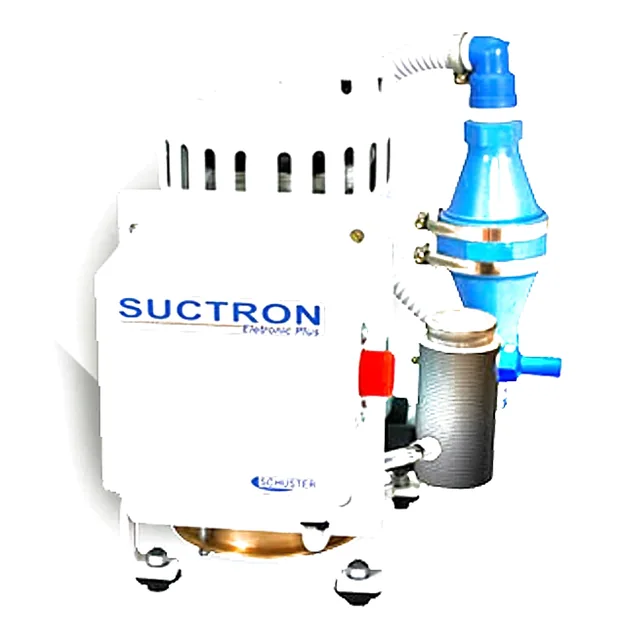
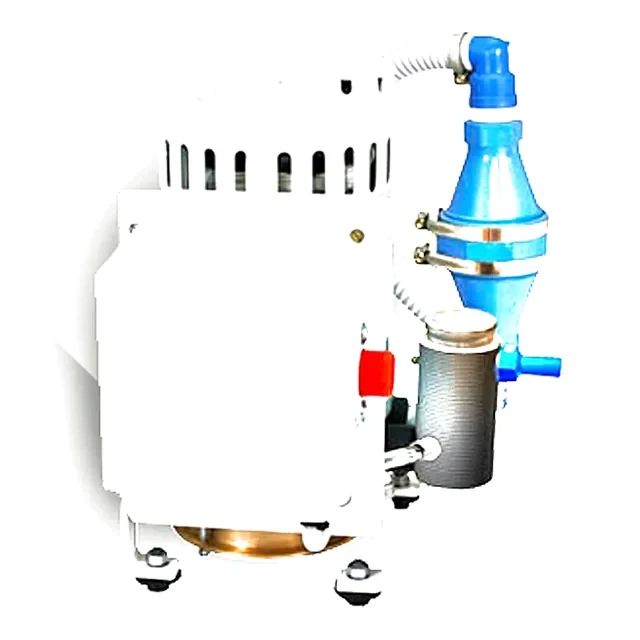
fix(site): uma prova por trecho, FAQ sem repetição e foco visível no simulador
Revisão visual em 320–1920 depois da consolidação do CSS.

- Home: sai a faixa de equipamentos logo abaixo da abertura, a terceira
  escolha de equipamento seguida (triagem, faixa, grade). O cartão aberto
  da grade passa a levar à landing do equipamento ("Ver conserto").
- Selos sobre foto que repetiam a faixa seguinte ("todas as marcas",
  "orçamento antes da troca") saem da home e das landings; sai também o
  chip "sem estimativa em R$" do simulador, que quebrava em três linhas.
- FAQ das landings: a pergunta de marca do equipamento (`tema: "marcas"`)
  toma o lugar da geral, em vez de repetir a mesma resposta. O E2E das
  7 landings reprova pergunta duplicada no FAQPage.
- Deslizantes do simulador mostram o foco de teclado no próprio controle;
  antes o contorno ficava só no pseudo-elemento do botão, que nenhum
  navegador desenha igual. Sem a faixa, os 30 Tabs do portão de a11y
  passaram a alcançá-los e pegaram o defeito.
- Legenda da foto da clínica não fica mais coberta pela foto da bancada;
  "Cookies e medição" alinha com os outros links do rodapé; FAQ com
  respiro interno; sobretítulo das landings quebra em linhas equilibradas.
- Foto da bomba de vácuo sem a marca do fabricante estampada.

Bateria `pnpm validacao:final` integral: arquitetura, lint (0 erros),
tipos, 384 unitários, build com banco, E2E 96/96, a11y 30 medições sem
violação e responsividade 132 medições.

Changed region(s): [[0.1875, 0.4688, 0.5, 0.5312], [0.375, 0.75, 0.5, 0.7812]]

diff --git a/src/components/site/grade-equipamentos.tsx b/src/components/site/grade-equipamentos.tsx
@@ -2,13 +2,15 @@
 
 import { useId, useState } from "react";
 import Image from "next/image";
-import { BadgeCheck, ChevronDown } from "lucide-react";
+import Link from "next/link";
+import { ArrowRight, BadgeCheck, ChevronDown } from "lucide-react";
 
 import { ICONE_DO_EQUIPAMENTO, IMAGEM_DO_EQUIPAMENTO } from "@/components/site/icones-equipamento";
 import { MarcaWhatsapp } from "@/components/site/marca-whatsapp";
 import { OpcoesWhatsapp } from "@/components/site/opcoes-whatsapp";
 import type { ContatoWhatsapp } from "@/lib/contatos-whatsapp";
 import { EQUIPAMENTOS, montarMensagem, type Equipamento, type IdEquipamento } from "@/lib/diagnostico";
+import { caminhoDoEquipamento } from "@/lib/paginas-equipamento";
 import { cn } from "@/lib/utils";
 
 /* ============================================================================
@@ -28,6 +30,10 @@ import { cn } from "@/lib/utils";
    Grade de 4 colunas: 4 células da autoclave + 6 comuns + 2 do "outro" = 12,
    sem buraco. No celular, 2 colunas com os dois blocos largos ocupando a
    linha inteira.
+
+   Aberto, o cartão também leva à página do equipamento. Até 23/09/2026 a home
+   tinha, além desta grade, uma faixa só com esses links logo abaixo da
+   abertura: três escolhas de equipamento seguidas (triagem, faixa, grade).
    ============================================================================ */
 
 function Cartao({
@@ -51,6 +57,7 @@ function Cartao({
   const imagem = IMAGEM_DO_EQUIPAMENTO[equipamento.id];
   const outro = equipamento.id === "outro";
   const idOpcoes = useId();
+  const pagina = caminhoDoEquipamento(equipamento.id);
 
   return (
     <li
@@ -161,15 +168,28 @@ function Cartao({
 
         <div id={idOpcoes} hidden={!aberto} className="relative z-[2] mt-4">
           {aberto ? (
-            <OpcoesWhatsapp
-              contatos={contatos}
-              mensagem={montarMensagem({ equipamento: equipamento.id })}
-              equipamento={equipamento.id}
-              posicao="secao"
-              tamanho="sm"
-              lado={destaque || largo}
-              coluna={!destaque && !largo}
-            />
+            <>
+              <OpcoesWhatsapp
+                contatos={contatos}
+                mensagem={montarMensagem({ equipamento: equipamento.id })}
+                equipamento={equipamento.id}
+                posicao="secao"
+                tamanho="sm"
+                lado={destaque || largo}
+                coluna={!destaque && !largo}
+              />
+              {pagina ? (
+                <Link
+                  href={pagina}
+                  prefetch={false}
+                  className="foco-jb mt-2 inline-flex min-h-11 items-center gap-1.5 rounded-md text-sm font-bold text-graf-700 underline-offset-4 hover:text-jb-700 hover:underline"
+                >
+                  Ver conserto
+                  <span className="sr-only"> de {equipamento.nome.toLowerCase()}</span>
+                  <ArrowRight className="size-4" aria-hidden />
+                </Link>
+              ) : null}
+            </>
           ) : null}
         </div>
       </div>

diff --git a/src/components/site/duvidas.tsx b/src/components/site/duvidas.tsx
@@ -1,6 +1,7 @@
-import { MessageCircleQuestion, ShieldCheck } from "lucide-react";
+import { MessageCircleQuestion } from "lucide-react";
 
 import { Acordeao } from "@/components/ui/acordeao";
+import type { Pergunta } from "@/lib/paginas-equipamento";
 import { JsonLd, faqJsonLd } from "@/lib/seo";
 
 /* ============================================================================
@@ -19,10 +20,9 @@ export function Duvidas({
   cidade: string;
   horario: string;
   /** Perguntas de um equipamento, que vêm antes das gerais. */
-  extras?: readonly { pergunta: string; resposta: string }[];
+  extras?: readonly Pergunta[];
 }) {
-  const perguntas = [
-    ...extras,
+  const gerais: Pergunta[] = [
     {
       pergunta: "Vocês atendem na minha clínica?",
       resposta: `A JB atende clínicas em ${cidade} e região. Conforme o equipamento e a ocorrência, a avaliação acontece no consultório ou na bancada da JB — a forma de atendimento é combinada com a clínica depois da triagem pelo WhatsApp.`,
@@ -33,6 +33,7 @@ export function Duvidas({
         "Depende do equipamento, do defeito e da peça, e só se sabe depois da avaliação. Quando houver troca de peça, o orçamento vem antes: nenhuma peça é substituída sem a aprovação da clínica.",
     },
     {
+      tema: "marcas",
       pergunta: "Vocês atendem todas as marcas?",
       resposta:
         "Sim. A JB conserta equipamentos odontológicos de todas as marcas. Modelo e sintoma entram na triagem quando a clínica os informa. A JB também é assistência técnica autorizada EVOXX, na lista oficial do fabricante.",
@@ -52,6 +53,9 @@ export function Duvidas({
         "Não. É só chamar no WhatsApp. A equipe registra o atendimento do lado de cá, com o histórico do seu equipamento.",
     },
   ];
+  // "De qualquer marca?" do equipamento substitui o "todas as marcas?" geral.
+  const temas = new Set(extras.map((item) => item.tema).filter(Boolean));
+  const perguntas = [...extras, ...gerais.filter((item) => !item.tema || !temas.has(item.tema))];
 
   return (
     <section
@@ -75,21 +79,6 @@ export function Duvidas({
               sem esconder a próxima etapa.
             </p>
 
-            <div
-              className="jb-revela mt-6 flex gap-3 rounded-xl border border-graf-200 bg-white p-4"
-              style={{ "--i": 2 } as React.CSSProperties}
-            >
-              <span className="flex size-10 shrink-0 items-center justify-center rounded-xl bg-jb-50 text-jb-600">
-                <ShieldCheck className="size-5" aria-hidden />
-              </span>
-              <div>
-                <p className="text-sm font-extrabold text-graf-900">Orçamento antes da troca</p>
-                <p className="mt-1 text-xs font-medium leading-relaxed text-graf-600">
-                  Prazo e valor dependem da avaliação e da peça. Eles são informados antes de
-                  qualquer substituição, para a clínica aprovar.
-                </p>
-              </div>
-            </div>
           </div>
         </div>
 

diff --git a/src/components/site/pagina-equipamento.tsx b/src/components/site/pagina-equipamento.tsx
@@ -2,7 +2,7 @@ import type { Metadata } from "next";
 import Image from "next/image";
 import Link from "next/link";
 import { notFound } from "next/navigation";
-import { ArrowRight, BadgeCheck, FileCheck2, ShieldAlert } from "lucide-react";
+import { ArrowRight, ShieldAlert } from "lucide-react";
 
 import { ChamadaFinal } from "@/components/site/chamada-final";
 import { ClinicaOuBancada } from "@/components/site/clinica-ou-bancada";
@@ -162,7 +162,9 @@ export async function PaginaEquipamento({ slug }: { slug: string }) {
 
 /**
  * O equipamento em destaque, sobre um brilho da marca. Parado: a imagem
- * confirma o anúncio, e nada nela precisa se mexer em laço.
+ * confirma o anúncio, e nada nela precisa se mexer em laço. Sem selos por
+ * cima: "todas as marcas" e "orçamento antes da troca" já abrem a faixa logo
+ * abaixo, e repetidos aqui só disputavam espaço com a foto.
  *
  * Recorte de fundo branco entra com `mix-blend-multiply`, que some com o
  * branco da foto sobre o degradê; sem recorte bom (destilador), entra a foto
@@ -213,18 +215,6 @@ function Visual({ pagina }: { pagina: PaginaDeEquipamento }) {
         )}
       </div>
 
-      <p className="absolute -left-2 top-4 flex items-center gap-2 rounded-xl border border-graf-950/5 bg-white px-3 py-2 text-xs font-extrabold text-graf-900 shadow-pop sm:-left-4 sm:text-sm">
-        <span className="flex size-7 items-center justify-center rounded-lg bg-jb-500 text-white">
-          <BadgeCheck className="size-4" aria-hidden />
-        </span>
-        Todas as marcas
-      </p>
-      <p className="absolute -right-2 bottom-4 flex items-center gap-2 rounded-xl border border-graf-950/5 bg-white px-3 py-2 text-xs font-extrabold text-graf-900 shadow-pop sm:-right-4 sm:text-sm">
-        <span className="flex size-7 items-center justify-center rounded-lg bg-ok-500 text-white">
-          <FileCheck2 className="size-4" aria-hidden />
-        </span>
-        Orçamento antes da troca
-      </p>
     </div>
   );
 }

diff --git a/src/components/site/foto-abertura.tsx b/src/components/site/foto-abertura.tsx
@@ -1,6 +1,4 @@
 import Image from "next/image";
-import { BadgeCheck, FileCheck2 } from "lucide-react";
-
 import { cn } from "@/lib/utils";
 
 /* ============================================================================
@@ -13,7 +11,8 @@ import { cn } from "@/lib/utils";
 
    A foto fica parada. Zoom lento, reflexo que atravessa e selos boiando
    rodavam em laço infinito — enfeite que custa compositor e atenção sem
-   acrescentar informação.
+   acrescentar informação. Os selos "Todas as marcas" e "Orçamento antes da
+   troca" também saíram daqui: repetiam as provas logo acima da foto.
    ============================================================================ */
 
 export function FotoAbertura({ className }: { className?: string }) {
@@ -42,19 +41,6 @@ export function FotoAbertura({ className }: { className?: string }) {
           </div>
         </div>
       </div>
-
-      <p className="absolute -left-2 top-4 flex items-center gap-2 rounded-xl border border-white/70 bg-white/95 px-3 py-2 text-xs font-extrabold text-graf-900 shadow-pop sm:-left-4 sm:text-sm">
-        <span className="flex size-7 items-center justify-center rounded-lg bg-jb-500 text-white shadow-[0_6px_18px_-8px_rgb(224_20_27/0.9)]">
-          <BadgeCheck className="size-4" aria-hidden />
-        </span>
-        Todas as marcas
-      </p>
-      <p className="absolute -right-2 top-16 flex items-center gap-2 rounded-xl border border-white/70 bg-white/95 px-3 py-2 text-xs font-extrabold text-graf-900 shadow-pop sm:-right-4 sm:top-auto sm:bottom-5 sm:text-sm">
-        <span className="flex size-7 items-center justify-center rounded-lg bg-ok-500 text-white shadow-[0_6px_18px_-8px_rgb(16_185_129/0.9)]">
-          <FileCheck2 className="size-4" aria-hidden />
-        </span>
-        Orçamento antes da troca
-      </p>
 
       <figcaption className="sr-only">
         Assistência técnica de equipamentos odontológicos com orçamento informado antes da troca de peças.

diff --git a/src/app/(site)/site.css b/src/app/(site)/site.css
@@ -95,9 +95,19 @@
 /* ------------------------------------------------------ controle deslizante */
 
 /* Trilho grosso e botão de 28px: o polegar acerta de primeira no celular. O
-   trecho já percorrido fica vermelho, lido de `--preenchido`. */
+   trecho já percorrido fica vermelho, lido de `--preenchido`.
+
+   O foco de teclado contorna o controle inteiro, como o `foco-jb` do resto do
+   site. Até 23/09/2026 o contorno ficava só no pseudo-elemento do botão
+   (`::-webkit-slider-thumb`/`::-moz-range-thumb`), que cada navegador desenha
+   do seu jeito e que nenhuma medição de foco consegue ler. */
+.jb-deslizante {
+  border-radius: 0.75rem;
+}
+
 .jb-deslizante:focus-visible {
-  outline: none;
+  outline: 2px solid var(--color-jb-500);
+  outline-offset: 2px;
 }
 
 .jb-deslizante::-webkit-slider-runnable-track {
@@ -126,11 +136,6 @@
   transform: scale(1.15);
 }
 
-.jb-deslizante:focus-visible::-webkit-slider-thumb {
-  outline: 2px solid var(--color-jb-500);
-  outline-offset: 3px;
-}
-
 .jb-deslizante::-moz-range-track {
   height: 8px;
   border-radius: 999px;
@@ -150,11 +155,6 @@
   background: #fff;
   border: 3px solid var(--color-jb-500);
   box-shadow: 0 2px 10px rgb(26 28 30 / 0.2);
-}
-
-.jb-deslizante:focus-visible::-moz-range-thumb {
-  outline: 2px solid var(--color-jb-500);
-  outline-offset: 3px;
 }
 
 /* ------------------------------------------------ troca de passo da triagem */

diff --git a/tests/e2e-assistencia/site-atual.spec.ts b/tests/e2e-assistencia/site-atual.spec.ts
@@ -275,7 +275,14 @@ test.describe("JB assistência — jornada pública atual", () => {
       expect(og).toContain(`${landing.rota}/opengraph-image`);
       await expect(page.locator('meta[property="og:title"]')).toHaveAttribute("content", landing.chave);
       await expect(page.locator('meta[name="twitter:card"]')).toHaveAttribute("content", "summary_large_image");
-      expect(tipos(await jsonLd(page))).toEqual(expect.arrayContaining(["Service", "BreadcrumbList", "FAQPage"]));
+      const dados = await jsonLd(page);
+      expect(tipos(dados)).toEqual(expect.arrayContaining(["Service", "BreadcrumbList", "FAQPage"]));
+      /* A pergunta de marca do equipamento substitui a geral: nada repetido. */
+      const faq = dados.find((dado) => dado["@type"] === "FAQPage") as { mainEntity?: { name: string }[] } | undefined;
+      const perguntas = (faq?.mainEntity ?? []).map((item) => item.name);
+      expect(perguntas.length).toBeGreaterThan(3);
+      expect(new Set(perguntas).size).toBe(perguntas.length);
+      expect(perguntas.filter((pergunta) => /marca/i.test(pergunta))).toHaveLength(1);
 
       const imagem = await page.request.get(noServidorDoTeste(og, baseURL));
       expect(imagem.status()).toBe(200);

diff --git a/src/lib/paginas-equipamento.ts b/src/lib/paginas-equipamento.ts
@@ -18,7 +18,11 @@ import { equipamentoPorId, type Equipamento, type IdEquipamento } from "@/lib/di
    Módulo puro: as páginas, o rodapé, o mapa do site e os testes leem daqui.
    ============================================================================ */
 
-export type Pergunta = { pergunta: string; resposta: string };
+/**
+ * Pergunta de um equipamento. Com `tema`, ela ocupa o lugar da pergunta geral
+ * do mesmo tema na lista de dúvidas, em vez de repeti-la com outras palavras.
+ */
+export type Pergunta = { pergunta: string; resposta: string; tema?: "marcas" };
 
 export type VisualDoEquipamento =
   /** Recorte do equipamento em fundo branco (`public/site/equip`). */
@@ -57,6 +61,7 @@ const FOTO_DA_BANCADA: VisualDoEquipamento = {
  */
 function todasAsMarcas(nome: string): Pergunta {
   return {
+    tema: "marcas",
     pergunta: `Vocês consertam ${nome} de qualquer marca?`,
     resposta:
       "Sim, de todas as marcas. Marca, modelo e sintoma entram na triagem quando a clínica os informa, antes de a equipe definir o próximo passo.",

diff --git a/src/app/(site)/acabamento.css b/src/app/(site)/acabamento.css
@@ -1115,8 +1115,13 @@
     box-shadow: 0 26px 68px -44px rgb(12 14 16 / 0.5);
   }
 
-  [data-jb-site="assistencia"] .jb-landing-hero > .container-jb > div:last-child p {
-    font-size: 0.7rem;
+  /* Sobretítulo que quebra em duas linhas: linhas equilibradas e canto de
+     cartão, em vez de uma pílula com a cidade sobrando embaixo. */
+  [data-jb-site="assistencia"] .jb-landing-hero .sobretitulo {
+    padding-block: 0.25rem;
+    border-radius: 0.9rem;
+    line-height: 1.25;
+    text-wrap: balance;
   }
 }
 
@@ -1639,7 +1644,10 @@
     0 34px 80px -56px rgb(12 14 16 / 0.52);
 }
 
+/* Pergunta e resposta com respiro dentro do cartão: sem isto o texto encostava
+   na borda no celular. */
 [data-jb-site="assistencia"] .jb-faq-lista details {
+  padding-inline: 1rem;
   border-radius: 1rem;
 }
 

diff --git a/src/app/(site)/page.tsx b/src/app/(site)/page.tsx
@@ -7,7 +7,6 @@ import { ComoFunciona } from "@/components/site/como-funciona";
 import { DiagnosticoWhatsapp } from "@/components/site/diagnostico-whatsapp";
 import { Duvidas } from "@/components/site/duvidas";
 import { FaixaAutorizada } from "@/components/site/faixa-autorizada";
-import { FaixaEquipamentos } from "@/components/site/faixa-equipamentos";
 import { FotoAbertura } from "@/components/site/foto-abertura";
 import { GradeEquipamentos } from "@/components/site/grade-equipamentos";
 import { OpcoesWhatsapp } from "@/components/site/opcoes-whatsapp";
@@ -131,8 +130,6 @@ export default async function HomePage() {
           </div>
         </div>
       </section>
-
-      <FaixaEquipamentos />
 
       <FaixaAutorizada desde={s.empresa_desde} cidade={s.endereco_cidade} />
 

diff --git a/src/components/site/clinica-ou-bancada.tsx b/src/components/site/clinica-ou-bancada.tsx
@@ -53,7 +53,8 @@ export function ClinicaOuBancada({ cidade, mensagem }: { cidade: string; mensage
               aria-hidden
               className="absolute inset-x-0 bottom-0 h-1/3 bg-gradient-to-t from-graf-950/35 to-transparent"
             />
-            <p className="absolute bottom-5 left-5 right-5 text-sm font-bold leading-relaxed text-white drop-shadow-sm sm:text-base">
+            {/* Metade esquerda: a foto da bancada ocupa o canto de baixo à direita. */}
+            <p className="absolute bottom-5 left-5 right-[52%] text-sm font-bold leading-relaxed text-white drop-shadow-sm sm:text-base">
               Atendimento definido conforme o equipamento e o tipo de serviço.
             </p>
           </div>

diff --git a/src/components/site/simulador-parada.tsx b/src/components/site/simulador-parada.tsx
@@ -94,9 +94,6 @@ export function SimuladorParada({ contatos }: { contatos: ContatoWhatsapp[] }) {
             Quanto uma parada pode mexer na agenda?
           </h3>
         </div>
-        <span className="hidden rounded-full border border-graf-200 bg-graf-50 px-3 py-1 text-xs font-bold text-graf-600 sm:inline-flex">
-          sem estimativa em R$
-        </span>
       </div>
 
       <div className="p-5 sm:p-7">

diff --git a/src/components/site/rodape-site.tsx b/src/components/site/rodape-site.tsx
@@ -150,7 +150,7 @@ export function RodapeSite({ s }: { s: SettingsMap }) {
             </li>
             {algumDestino(destinosDeMedicao(s)) ? (
               <li>
-                <RevisarMedicao className="foco-jb rounded hover:text-jb-300" />
+                <RevisarMedicao className="jb-footer-link foco-jb rounded" />
               </li>
             ) : null}
           </ul>
